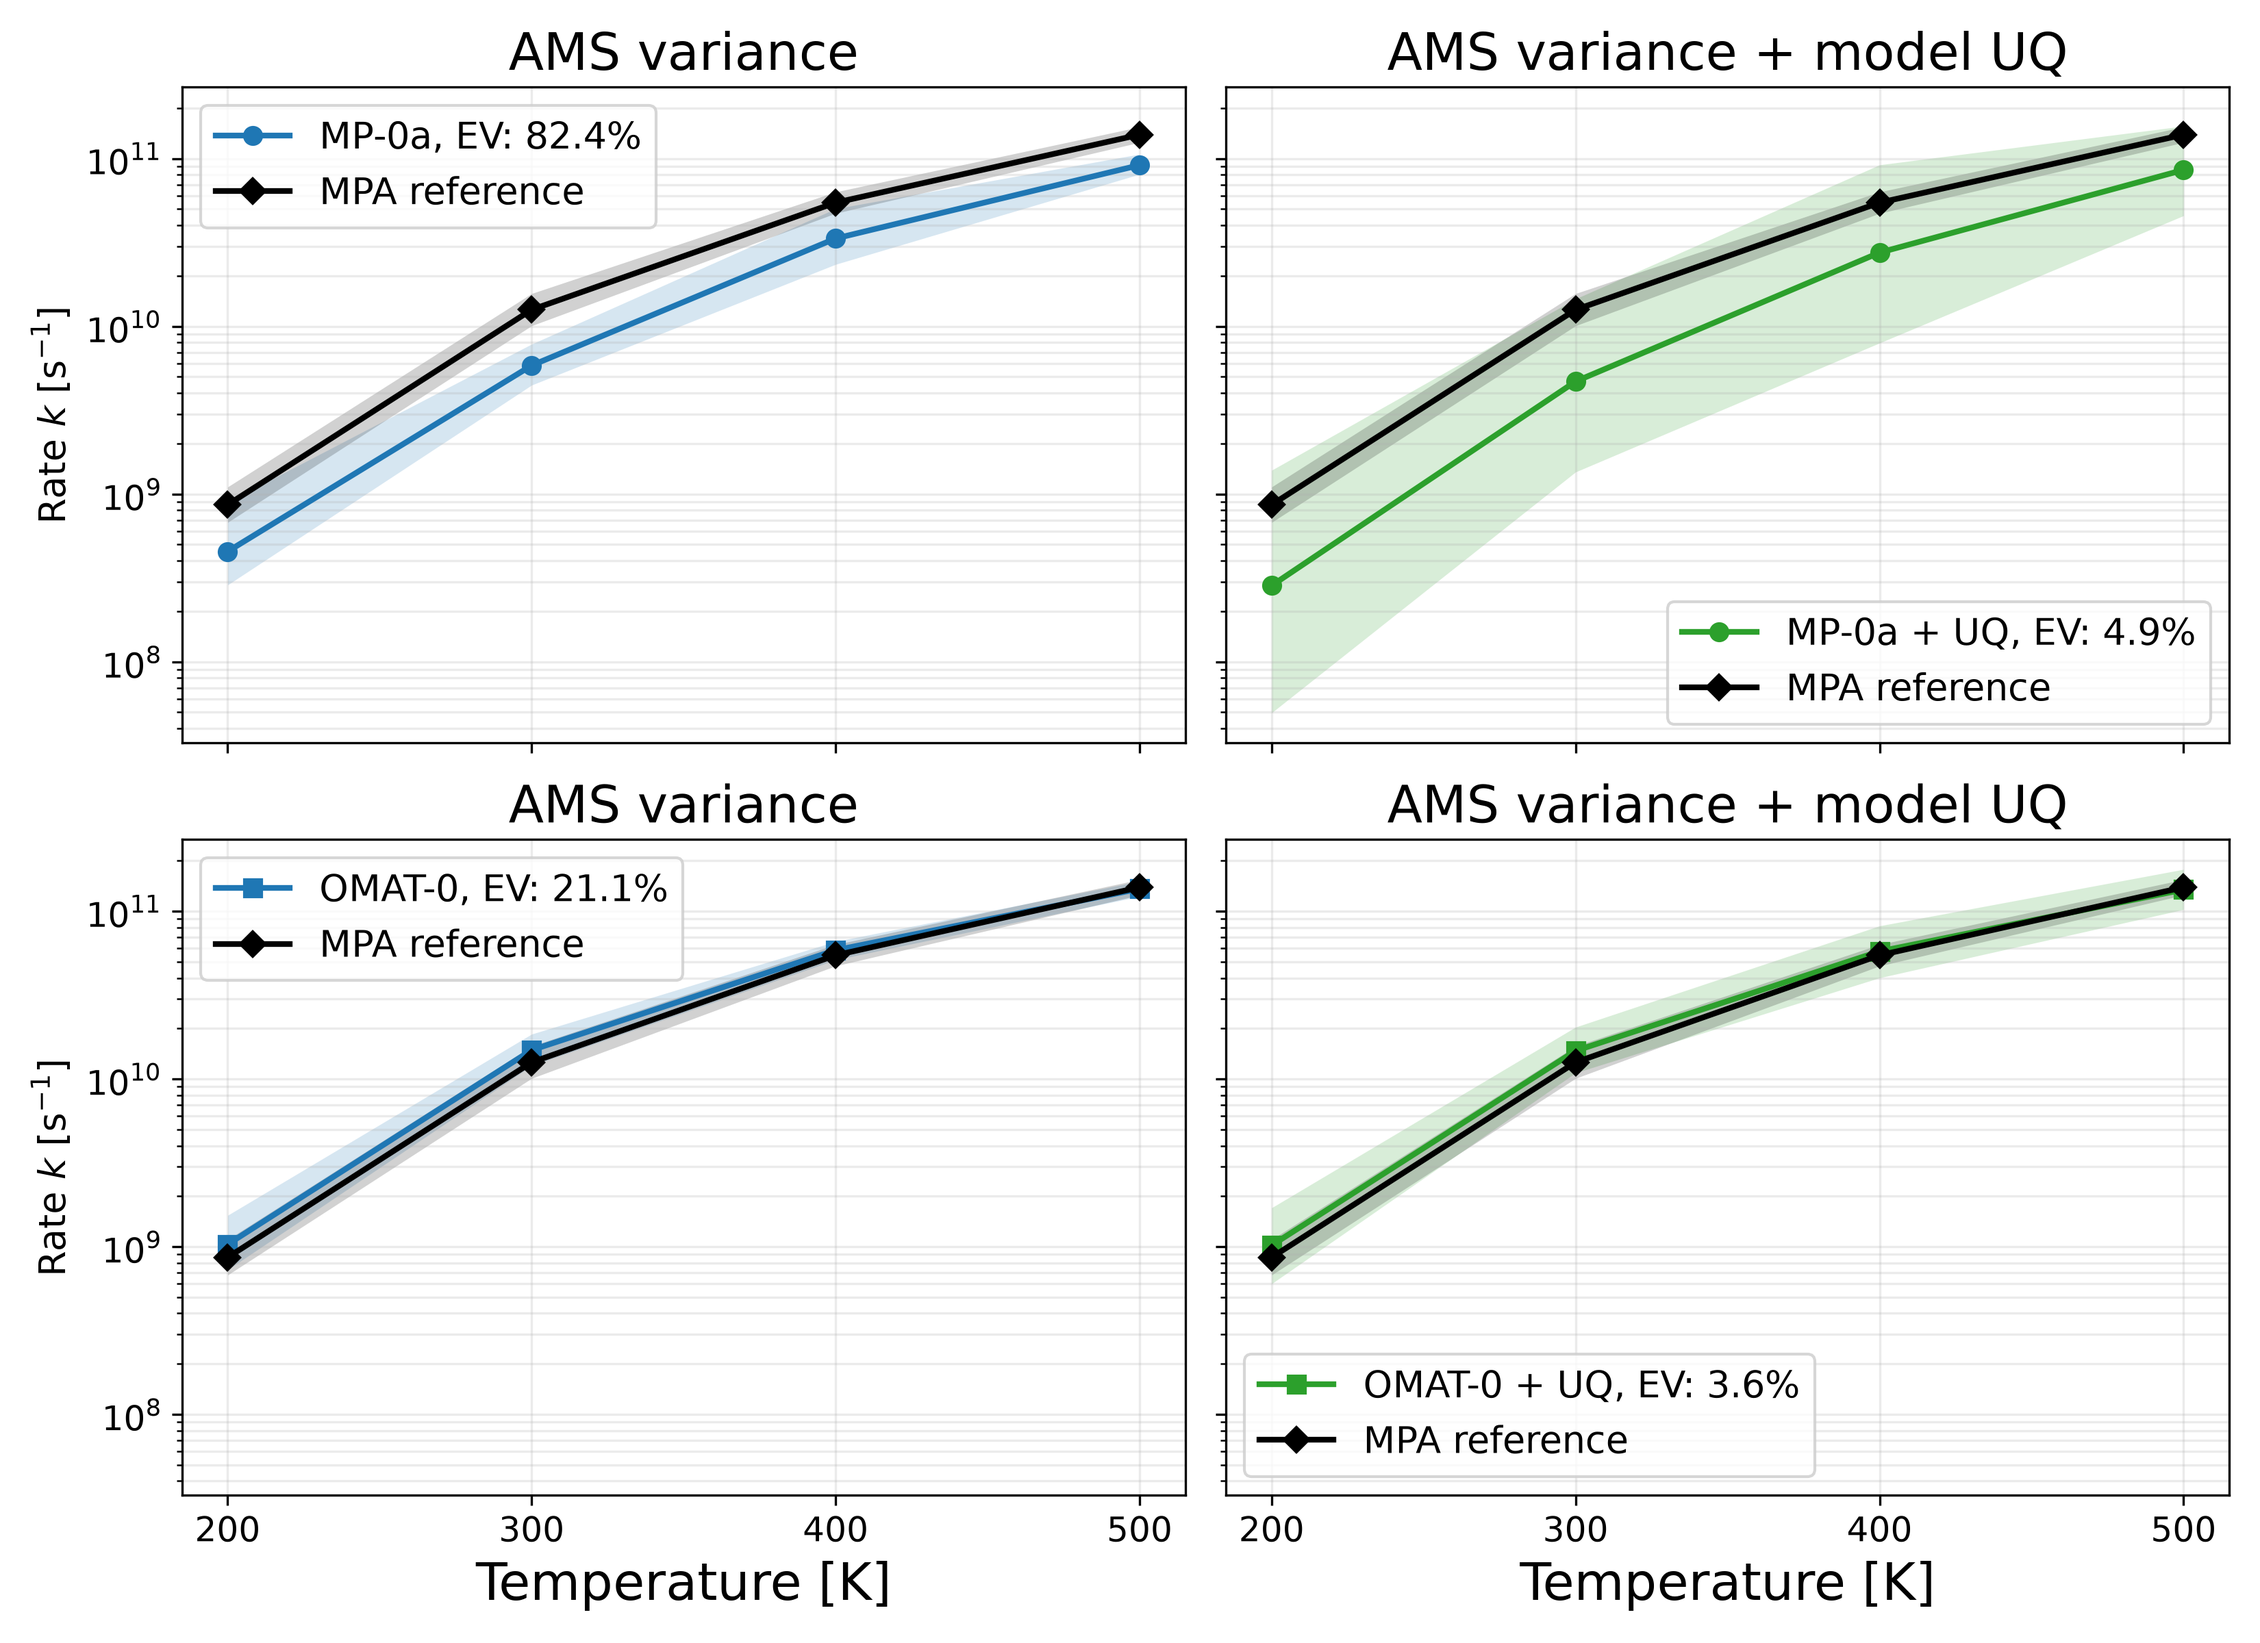
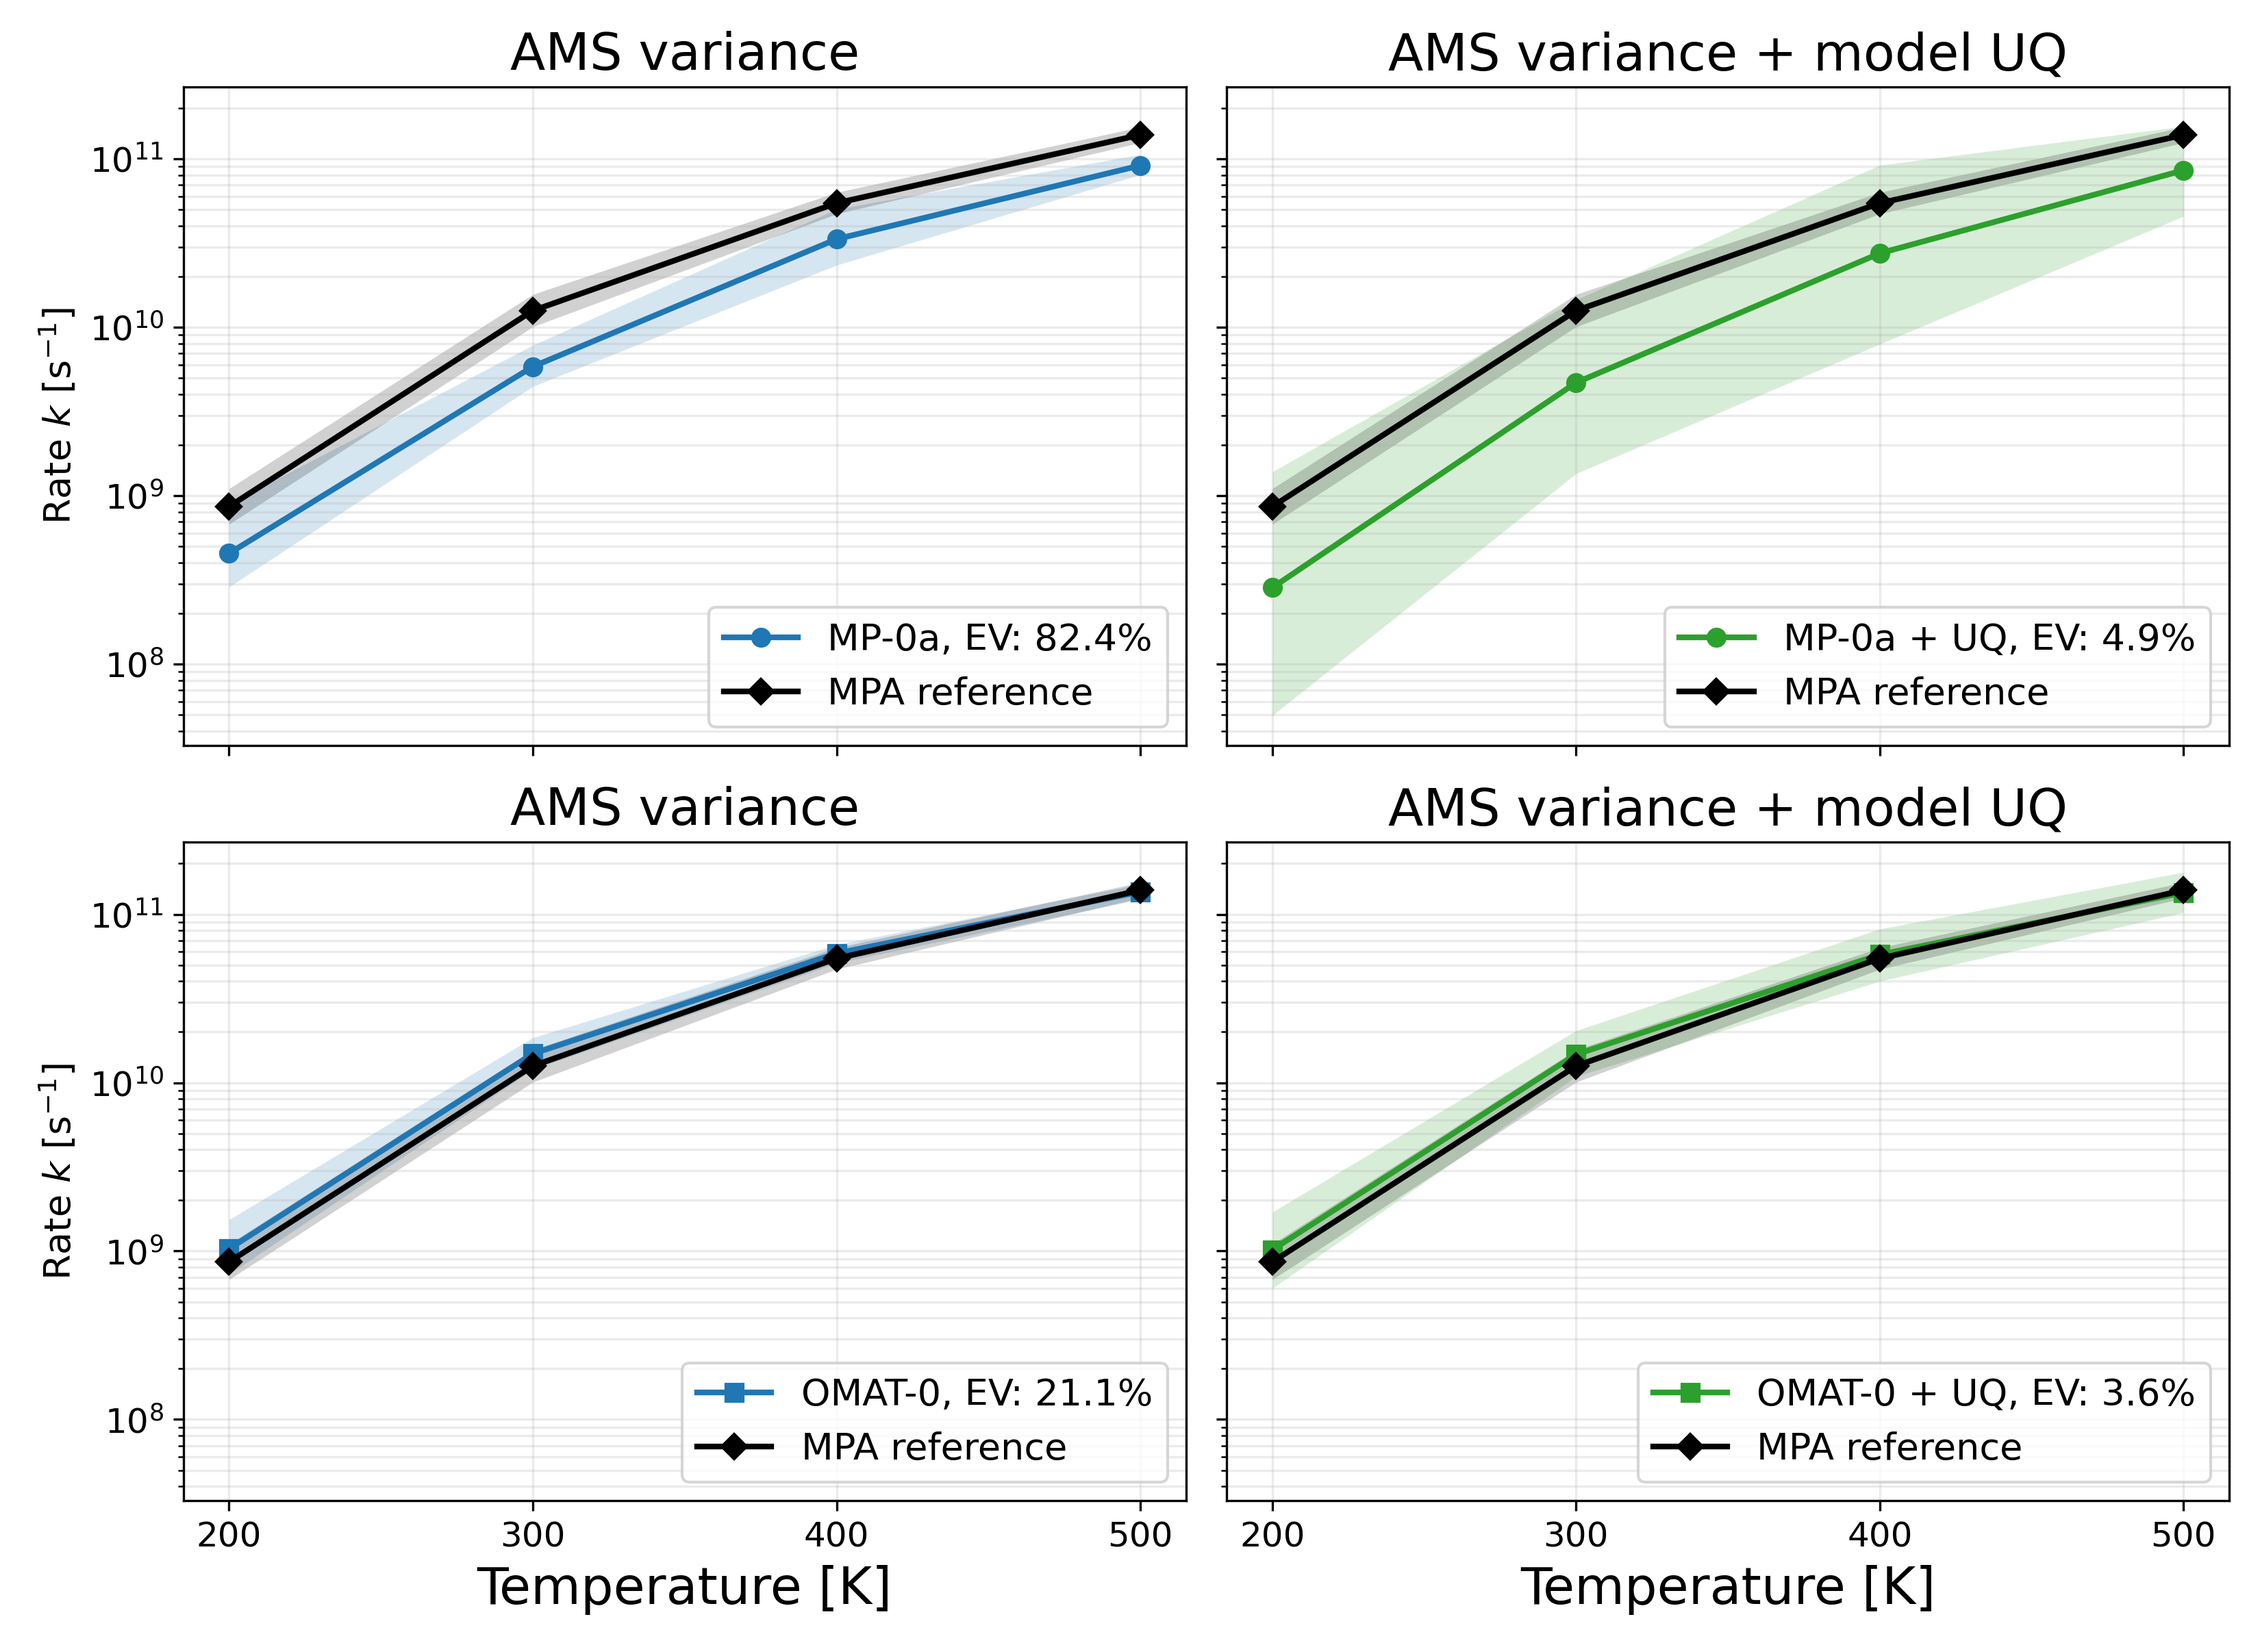
Place temperature plot legends consistently

diff --git a/scripts/AMS_butane/plots/plot_temperature.py b/scripts/AMS_butane/plots/plot_temperature.py
@@ -361,7 +361,7 @@ def plot_temperature_axes(axes, models=MODELS):
             ax.set_yscale("log")
             ax.set_ylim(2e-5, 3e-2)
             ax.grid(True, which="both", alpha=0.25)
-            ax.legend(fontsize=13)
+            ax.legend(loc="lower right", fontsize=13)
             print(
                 f"Global envelope violation, {labels[model]} / {uq_title}: "
                 f"{envelope_violation:.1%}"
@@ -478,7 +478,7 @@ def plot_rate_temperature_axes(axes):
             ax.set_xticks(TEMPERATURES)
             ax.set_yscale("log")
             ax.grid(True, which="both", alpha=0.25)
-            ax.legend(fontsize=13)
+            ax.legend(loc="lower right", fontsize=13)
 
     for ax in axes[-1, :]:
         ax.set_xlabel("Temperature [K]", fontsize=18)
